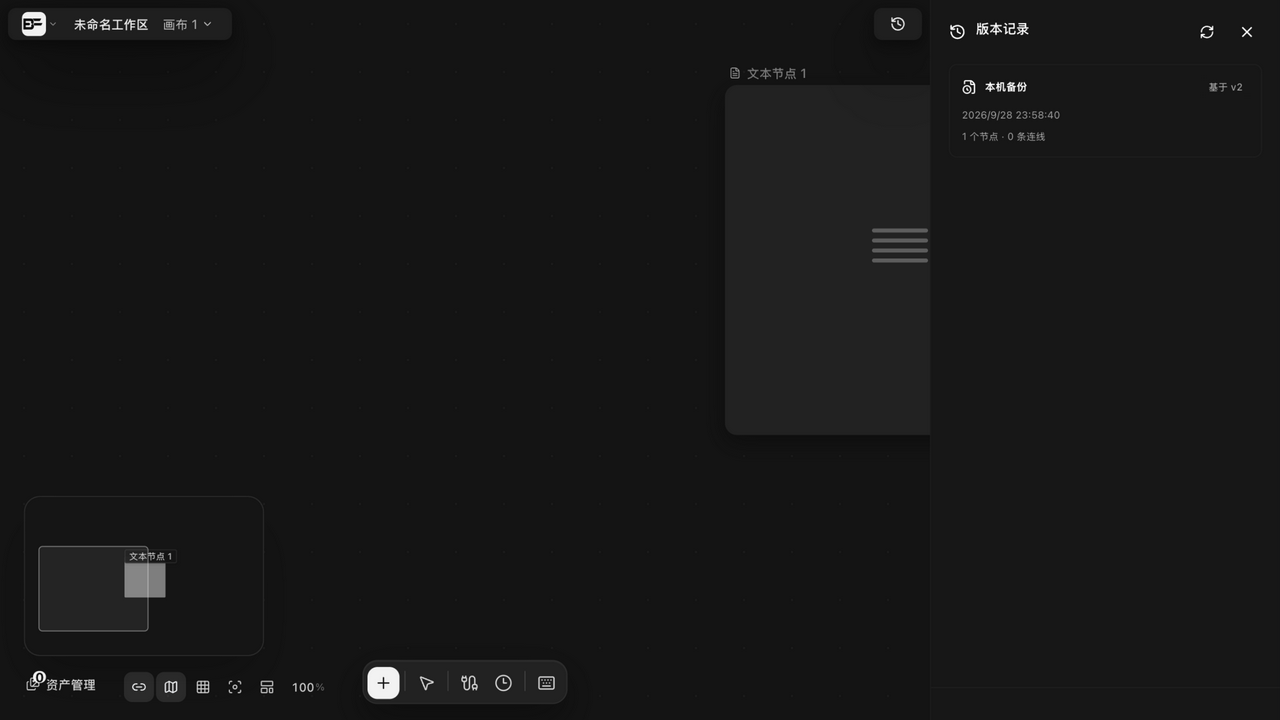
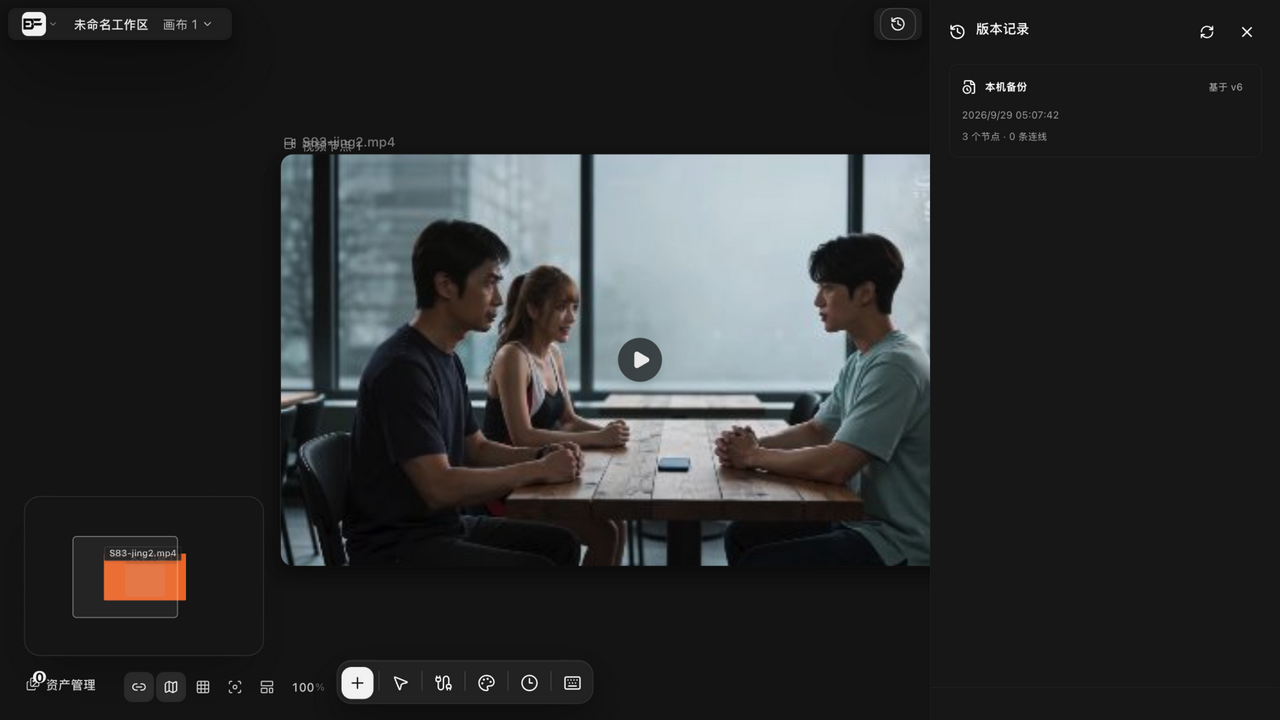
docs: beeftv manual batch 20 — recapture version-history sidebar (v1.6.6) and add generation-history modal screenshot

diff --git a/docs/user-manual/beeftv-canvas/AUDIT.md b/docs/user-manual/beeftv-canvas/AUDIT.md
@@ -55,7 +55,7 @@
 
 ## 环境记录（后续轮，2026-09-29）
 
-- webview 点击/截图表面劣化持续：生成历史弹窗与版本记录侧栏多次点击落空、截图表面连续超时。已有素材（20-assets-page / 25-search-modal 等）已覆盖对应章节的证据需求，不再硬磕；环境改善后可补拍生成历史弹窗与版本记录 v1.6.6 侧栏。
+- webview 点击/截图表面劣化持续：生成历史弹窗与版本记录侧栏多次点击落空、截图表面连续超时。已有素材（20-assets-page / 25-search-modal 等）已覆盖对应章节的证据需求，不再硬磕；环境改善后可补拍生成历史弹窗与版本记录 v1.6.6 侧栏。~~（已于 Batch 20 补拍完成，见环境记录五）~~
 
 ## 环境记录二（2026-09-29）
 
@@ -73,6 +73,13 @@
 - **弹窗关闭失效**：弹窗打开后 Esc、Close 按钮点击均不生效，reload 后恢复——与既往「点击落空」同源，非产品缺陷记录。
 - **视频模型下拉维持受阻**：「拖动节点：视频节点 1」柄为 hover-only，点击 actionability=hidden；节点标题按钮单击进入改名而非选中。AUDIT 表 #16 维持现状。
 - **local-runtime excluded 任务可达性评估**：`framefield-local-runtime` 二进制不在 BeefTV 仓库内（前端仅按 `http://127.0.0.1:17371` 回环探测；仓库内 `tools/depth-capture` 为离线 CLI，非该伴随进程），本机无法满足「启动伴随进程」开放条件——维持 excluded。
+
+## 环境记录五（Batch 20，2026-09-29）
+
+- **上游监控**：main 仍 v1.6.6（tag 后 0 提交）；depth-action 分叉维持 5 提交（尖端 5806524）未合流。无增量修订需求。
+- **两张受阻截图补拍成功**（本轮核心产出）：① 版本记录侧栏——v1.6.6 重摄 07（本机备份「基于 v6 / 3 个节点 · 0 条连线」，与 v1.5.7 期旧摄结构一致）；② 生成历史弹窗——新增 28 号截图（标题/搜索占位/空态三事实与 Batch 19 DOM 取证一致）。有效手法记录：**新建标签页 + 交互后立即截图；表面失效后等待 15s 左右可恢复；旧的长命标签页表面不可恢复，reload 只能恢复点击不能恢复截图**。
+- **视频模型下拉清单维持受阻，且确认为结构性限制**：源码 `canvas-video-settings-popover.tsx:59` 证实设置面板为条件渲染（`open && buttonRect` 时才挂载 portal），无 CSS 预渲染——DOM 取证必须真实点击两跳（选中节点→点开高级设置），在当前点击劣化表面上不可达。维持 Batch 299 源站 14 模型采样文字口径。
+- 「适合屏幕」点击未生效（tooltip 出现但缩放维持 100%）；force click 绕过 actionability 亦超时——同源点击劣化，不作为功能缺陷记录。
 
 ## 发现与修复
 

diff --git a/docs/user-manual/beeftv-canvas/FINAL-REPORT.md b/docs/user-manual/beeftv-canvas/FINAL-REPORT.md
@@ -25,7 +25,7 @@
 ## 覆盖率
 
 - 任务账本 25 项：**14 verified**（运行时走查或内容一致性审查通过）/ **11 excluded**（带原因与开放条件表，见 PROGRESS §17c）；
-- 26 张真实截图入册（screenshots/manifest.yml 逐张登记 sha256/定位证据/alt）；
+- 28 张真实截图入册（screenshots/manifest.yml 逐张登记 sha256/定位证据/alt）；
 - 界面文字逐字取自源码；v1.6.x 界面差异以文字标注。
 
 ## 未覆盖项（12 项 excluded 摘要）
@@ -40,14 +40,14 @@
 
 ## 已知限制
 
-1. **webview 点击不可靠**（与帧界 batch 292 同源）：部分下拉/菜单点击落空，剪辑台内部、版本记录 v1.6.6 侧栏的运行时走查受阻，生成历史弹窗已有 DOM 结构取证（Batch 19）但截图待补，视频模型下拉仅有文本采样——均已记录于 AUDIT.md，环境改善后可补；
+1. **webview 点击不可靠**（与帧界 batch 292 同源）：部分下拉/菜单点击落空，剪辑台内部的运行时走查受阻；生成历史弹窗（Batch 19 DOM 取证 + Batch 20 截图 28）与版本记录 v1.6.6 侧栏（Batch 20 重摄 07）已补齐；视频模型下拉清单为条件渲染面板（popover:59），点击链路过长，暂以 Batch 299 源站 14 模型采样文字替代——均记录于 AUDIT.md；
 2. **视频模型下拉清单**：受同上限制暂以 Batch 299 源站 14 模型采样文字替代（当前值「2.0」已实证）；
 3. **生成操作**：按量计费，全部流程止于付费边界前一步（安全红线）；
 4. **depth-action 分叉**：`codex/depth-action-video-preview`（163 文件，备发布 v1.6.0）与 main 并行——合流后按双向差异审计修订手册对应章节。
 
 ## 审计状态
 
-- Gate A：OK（25 tasks / 31 Markdown / 26 images）；
+- Gate A：OK（25 tasks / 32 Markdown / 28 images）；
 - Gate B：15+ 项走查记入 AUDIT.md（发现均已修复或如实记录）；
-- `--phase final`：OK（25 tasks / 31 Markdown files / 26 images）；
-- verify-docs.py：1165 文件 4834 链接全绿。
+- `--phase final`：OK（25 tasks / 32 Markdown files / 28 images）；
+- verify-docs.py：1168 文件 4834 链接全绿（Batch 20 复验）。

diff --git a/docs/user-manual/beeftv-canvas/PROGRESS.md b/docs/user-manual/beeftv-canvas/PROGRESS.md
@@ -29,6 +29,7 @@
 | 17c | excluded 任务开放条件系统化（12 项，供后续接手者按表解锁） | ✅ 完成 |
 | 18 | 可达升级两例：plugins-management / troubleshooting 升 verified | ✅ 完成（excluded 13→12） |
 | 19 | 监控轮：上游无变化（main v1.6.6 / depth-action 5 提交未合流）；生成历史弹窗首次点开并 DOM 取证（回写 create-nodes）；local-runtime 可达性评估（二进制不在仓库，维持 excluded） | ✅ 完成（AUDIT 环境记录四） |
+| 20 | 监控轮：上游无变化；补拍两张受阻截图——版本记录侧栏 v1.6.6 重摄（07）+ 生成历史弹窗新增（28，嵌入 create-nodes）；模型下拉确认为条件渲染结构性受阻（源码 popover:59） | ✅ 完成（AUDIT 环境记录五） |
 
 ### excluded 任务开放条件表（12 项，2026-09-29 快照）
 

diff --git a/docs/user-manual/beeftv-canvas/10-tasks/create-nodes.md b/docs/user-manual/beeftv-canvas/10-tasks/create-nodes.md
@@ -44,6 +44,8 @@
 
 > 实测（生成历史弹窗，运行时 DOM 取证）：点击「从生成历史选择」打开同名弹窗，含搜索框（占位文案「搜索提示词或模型」）；没有可复用结果时显示空态「暂无可插入的生成结果」。底栏工具条的「生成历史」按钮打开的是同一弹窗。
 
+![生成历史弹窗：搜索框与空态](../screenshots/28-generation-history-modal.png)
+
 ![添加节点菜单（列表形态，右上角搜索）](../screenshots/03-add-node-menu.png)
 
 ![搜索画布节点 modal：最近编辑条目含缩略图与时间戳](../screenshots/25-search-modal.png)

diff --git a/docs/user-manual/beeftv-canvas/10-tasks/undo-history-versions.md b/docs/user-manual/beeftv-canvas/10-tasks/undo-history-versions.md
@@ -21,7 +21,7 @@
 
 入口：画布顶栏 → 版本记录。
 
-![版本记录侧栏：本机备份条目](../screenshots/07-version-history.png)
+![版本记录侧栏：本机备份条目（v1.6.6 重摄）](../screenshots/07-version-history.png)
 
 - **云端 / 本地草稿** 双标签页（纯本地项目显示「本机备份」，条目含「基于 vX」与节点/连线计数）；
 - 每条历史可**只读预览整张画布**，确认后再恢复；
